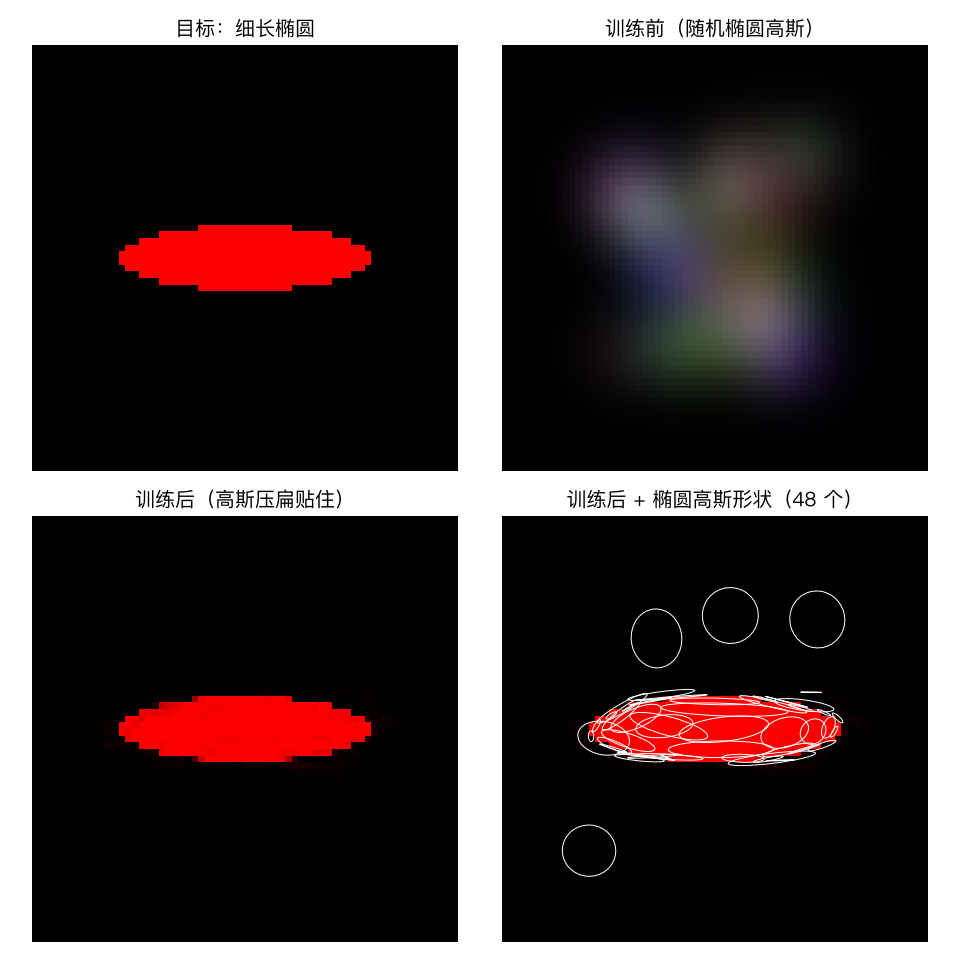
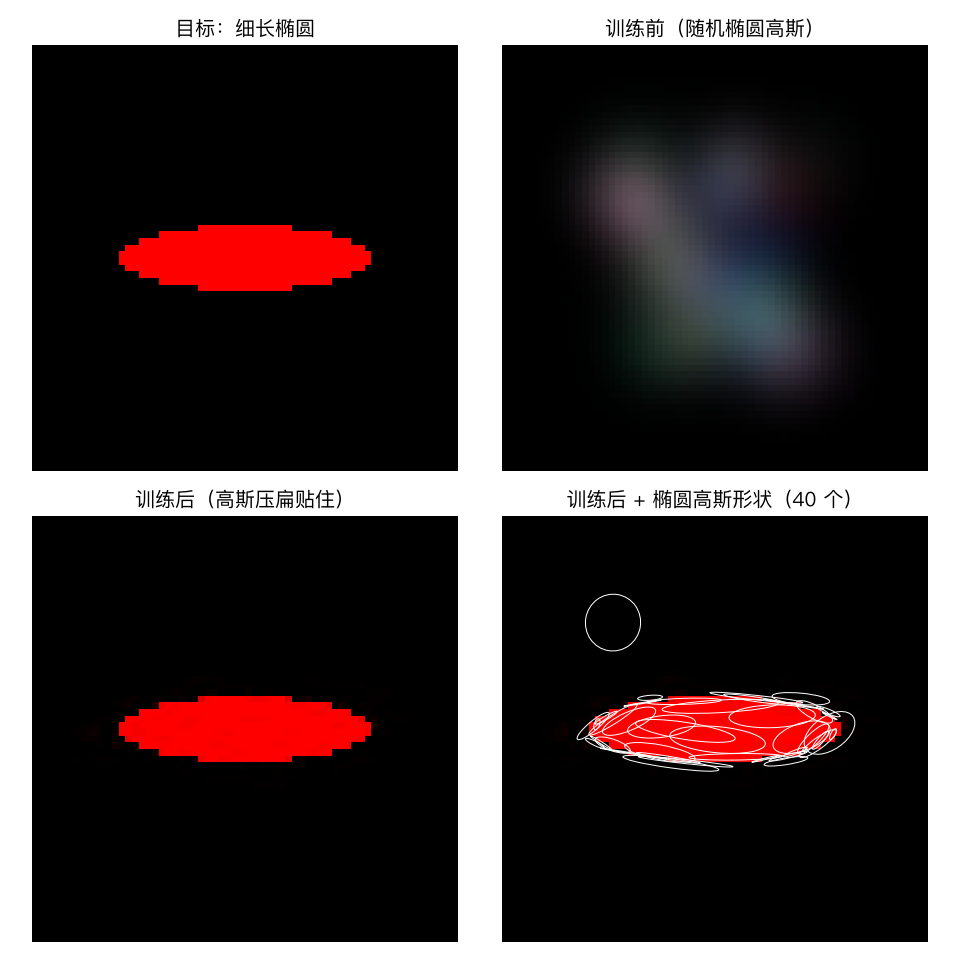
Day34 补充：K=40 实验（loss 0.000033）印证 K 非越大越好

diff --git a/Day34_各向异性高斯.py b/Day34_各向异性高斯.py
@@ -27,7 +27,7 @@ def make_target(H=64, W=64, a=0.6, b=0.15):
     return xy, target
 
 # ================= 第 2 步：椭圆高斯参数（6 个旋钮）=================
-K = 48                                                               # 48 个椭圆高斯
+K = 40                                                               # 40 个椭圆高斯（K=48 有 4 个透明冗余，40 更紧凑）
 means = (torch.rand(K, 2) - 0.5).requires_grad_(True)               # means: (K,2) 位置
 log_sigma_x = torch.full((K,), np.log(0.15)).requires_grad_(True)   # log_sigma_x: (K,) x 轴大小
 log_sigma_y = torch.full((K,), np.log(0.15)).requires_grad_(True)   # log_sigma_y: (K,) y 轴大小

diff --git a/AI自学日志.md b/AI自学日志.md
@@ -1436,6 +1436,7 @@
 - 每个椭圆高斯 6 个旋钮：μx/μy（位置）+ σx/σy（两轴）+ θ（旋转）+ rgb（颜色）
 - 初始 σx=σy=0.15（正圆），训练中学成「横扁」（σx 大、σy 小）贴住细长椭圆
 - 3D 延伸：3×3 协方差 → 3D 椭球 → 压成薄片贴墙面/桌面（3DGS 表示尖锐表面的关键）
+- K 实验：48 个高斯有 4 个透明冗余；改 K=40 后 loss 0.000148→0.000033，印证「K 不是越大越好」→ 真 3DGS 靠自适应密度控制自动定数量（不用人猜）
 
 **下一步**
 - Day 35：3D 高斯投影到 2D——splatting 完整管线（投影 + 深度排序 + alpha 混合）
